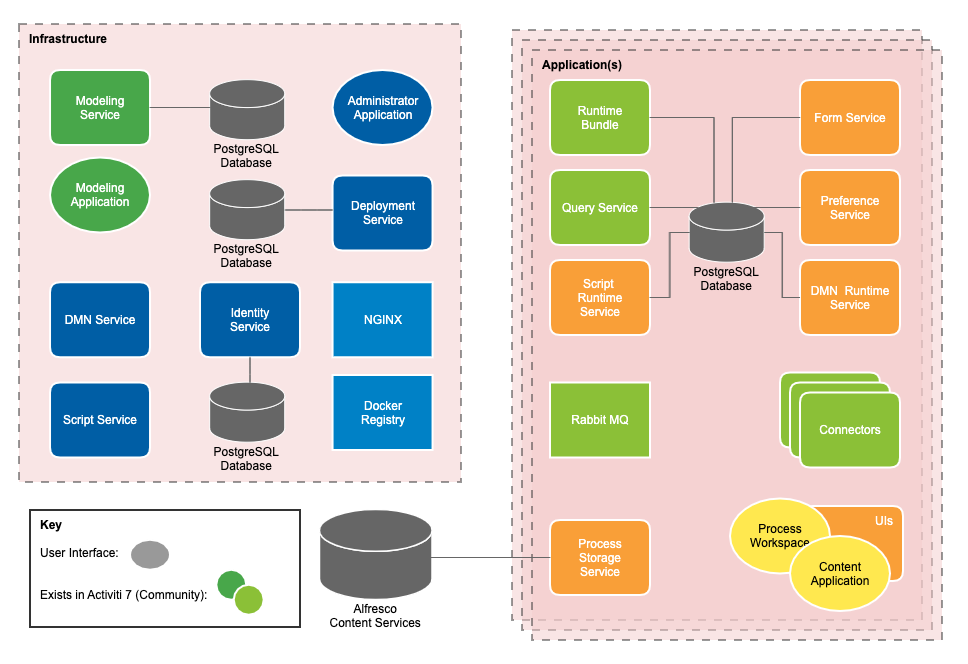
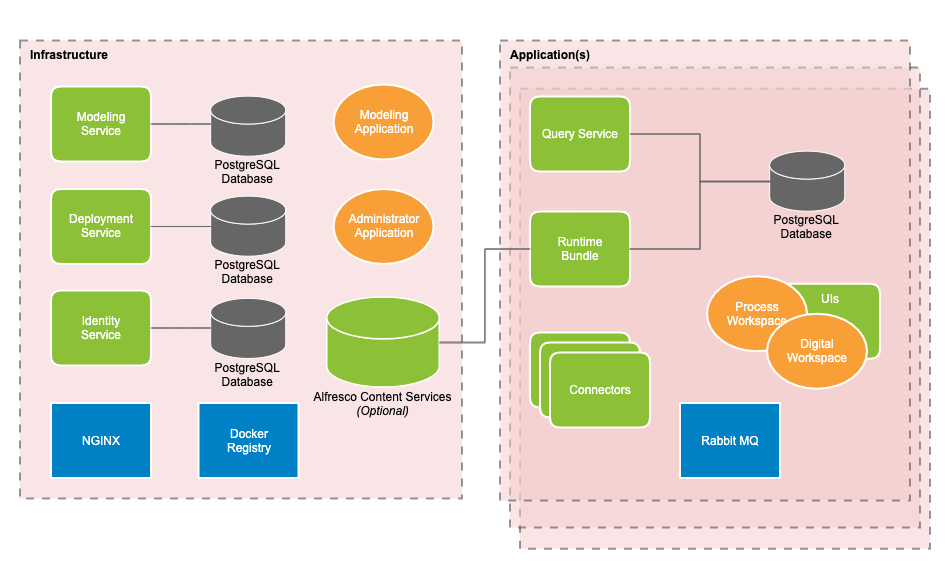
[DOCS-5830] Architecture updates

diff --git a/docs/architecture/application.md b/docs/architecture/application.md
@@ -2,68 +2,58 @@
 Title: Application services
 ---
 
-# Application Services
+# Application services
 Application Services are those that are deployed into a Kubernetes namespace as part of an application. There is a 1:1 relationship between Kubernetes namespaces and applications. Each application that is deployed will contain application level services specific to only that application in its own Kubernetes Namespace. 
 
-The application name therefore forms part of the REST API endpoints. 
+The application name forms part of the REST API endpoints. 
 
-## Runtime Bundle
-A runtime bundle represents a stateless instance of the process engine that executes an immutable set of process definitions. It is important to note that you cannot deploy new process definitions to an existing runtime bundle, nor can you update a process definition within it. Instead, you create a new version of your runtime bundle that contains the updates. 
+## Application runtime bundle
+The application runtime bundle is a service that contains the following: 
 
-Runtime Bundles expose a synchronous REST API and an asynchronous message-based API. Each Runtime Bundle contains a single application and each application is deployed to its own Namespace. 
+![Application runtime bundle diagram](../images/arch-runtime.png)
 
-Runtime Bundles emit and consume events that occur within processes via Spring Cloud Streams. A description of [engine events](events.md) and their classes is available.
+The application runtime bundle stores data in a Postgres database that is shared with the [application query service](#application-query-service), with data separated into separate schemas. A database is deployed into each namespace by default, however an external instance can be used as the target instead.
 
-By default, the data is stored in a Postgres database that is shared within an application namespace between the Query Service, Preference Service, Form Service and Runtime Bundle. This can be updated to point to a Postgres data store external to an application’s namespace or even external to the cluster. 
+### Process runtime
+The process runtime is a stateless instance of the process engine that executes an immutable set of process definitions. Each instance of the process engine only contains a single application.
 
-The REST APIs that the runtime bundle exposes deal with processes and tasks and are specific to each application. 
+A synchronous REST API and an asynchronous message-based API are exposed by the process engine and events are emitted and consumed via Spring Cloud Streams. A list of [engine events](events.md) and their classes is available.
 
-## Query Service
-The Query Service is used for querying process data without accessing the [runtime bundle](#runtime-bundle) directly. It consumes the events produced by the runtime bundle that are routed via Spring Cloud Streams through the [Rabbit MQ](#rabbit-mq) binder. 
+### Form runtime
+The form runtime contains the functionality required for [forms](../modeling/forms/README.md) to function within an application.  
 
-The query service contains tables that have had some level of data aggregation performed on them for querying purposes. These tables can also be used to setup [GraphQL](https://graphql.org/learn/) against to query specific events and use web sockets with. 
+### DMN runtime
+The DMN runtime contains the functionality required for [decision tables](../modeling/decisions.md) to function within an application. 
 
-Another set of tables within the query service store events without any data manipulation and are used as an audit trail for each application. These audit events can be queried without accessing the runtime bundle directly. 
+### Script runtime 
+The script runtime contains the functionality required to execute [scripts](../modeling/scripts.md) within an application.
 
-By default, the data is stored in a Postgres database that is shared within an application namespace between the Query Service, Preference Service, Form Service and Runtime Bundle. This can be updated to point to a Postgres data store external to an application’s namespace or even external to the cluster. 
+### Preference
+User preferences are retained in a key value store within the application database. 
 
-The REST APIs that the query service exposes deal with processes and tasks and are specific to each application. 
-
-## Form Service
-The Form Service contains the backend functionality required for [forms](../modeling/forms/README.md) to function within an application. 
-
-By default, the data is stored in a Postgres database that is shared within an application namespace between the Query Service, Preference Service, Form Service and Runtime Bundle. This can be updated to point to a Postgres data store external to an application’s namespace or even external to the cluster. 
-
-The REST APIs that the Form service exposes deal with forms and are specific to each application.
-
-The following is a high level diagram of the Form service:
-
-![Form service diagram](../images/arch-form.png)
-
-## Process Storage Service
-The Process Storage Service stores process instances and tasks as nodes within an [Alfresco Content Services (ACS)](http://docs.alfresco.com/6.1/concepts/welcome.html) repository. 
+### Process storage
+Process storage optionally stores process instances and tasks as nodes within an [Alfresco Content Services (ACS)](http://docs.alfresco.com/6.2/concepts/welcome.html) repository. 
 
 The user that creates these nodes in ACS is **service-account-storage-service**.  
 
-The REST APIs that the Process Storage Service exposes deal with folders and files and are specific to each application.  
+## Application query service
+The application query service contains the following: 
 
-The following is a high level diagram of the process storage service:
+![Application query service diagram](../images/arch-query.png)
 
-![Process Storage Service diagram](../images/arch-storage.png)
+The application query service stores data in a Postgres database that is shared with the [application runtime bundle](#application-runtime-bundle), with data separated into separate schemas. A database is deployed into each namespace by default, however an external instance can be used as the target instead.
 
-## DMN Runtime Service
-The DMN Runtime Service contains the backend functionality required for [decision tables](../modeling/decisions.md) to function within an application. 
+### Query
+Tables for querying application data are separate to the runtime so that queries can be run without accessing any runtime services. Some data aggregation is performed on the tables to improve querying.
 
-## Rabbit MQ
-[Rabbit MQ](https://www.rabbitmq.com/) is the default message broker deployed with Activiti Enterprise that routes the events emitted by the runtime bundle asynchronously to other relevant microservices such as the audit and query services. 
+### Audit 
+Audit log tables for all application transactions are separate to the runtime so that they can be queried without accessing any runtime services. No data aggregation or manipulation is run against audit logs to enforce an accurate audit trail. 
 
-Rabbit MQ is the default implementation, but can be replaced by a different message broker. 
-
-## Preference Service
-The Preference Service is a key value store that retains user-based preferences. By default, the data is stored in a Postgres database that is shared within an application namespace between the Query Service, Preference Service, Form Service and Runtime Bundle. This can be updated to point to a Postgres data store external to an application’s namespace or even external to the cluster. 
+### Notification 
+The tables used for querying application data are also be used to setup [GraphQL](https://graphql.org/learn/) against in order to query specific events and use web sockets with. 
 
 ## Connectors
-Connectors are used to execute logic outside of processes and the [runtime bundle](#runtime-bundle). Connectors are attached to a [service task](../modeling/processes/bpmn/service.md) within a process definition. When the process flow reaches the service task, the values are sent from the process instance to a connector using Spring Cloud Streams via [Rabbit MQ](#rabbit-mq) to be used as part of the logic. The results are sent back to the process instance after the connector has finished and the process flow continues.
+Connectors are used to execute logic outside of processes and the [application runtime bundle](#application-runtime-bundle). Connectors are attached to a [service task](../modeling/processes/bpmn/service.md) within a process definition. When the process flow reaches the service task, the values are sent from the process instance to a connector using Spring Cloud Streams via [Rabbit MQ](#rabbit-mq) to be used as part of the logic. The results are sent back to the process instance after the connector has finished and the process flow continues.
 
-## Script Runtime Service
-The Script Runtime Service contains the backend functionality required to execute [scripts](../modeling/scripts.md) within an application. Scripts are executed outside of the runtime bundle with the results being passed back using Rabbit MQ.
+## Rabbit MQ
+[Rabbit MQ](https://www.rabbitmq.com/) is the default message broker deployed with Activiti Enterprise that routes the events emitted by the runtime bundle asynchronously to other services.

diff --git a/docs/administrator/deploy/infrastructure.md b/docs/administrator/deploy/infrastructure.md
@@ -10,7 +10,7 @@ Certain aspects of the infrastructure can be configured on an application by app
 * [Deploying an application with custom images](#deploying-an-application-with-custom-images)
 
 ## Configuring external Postgres instances
-By default, data for the query service, preference service, form service and runtime bundle is stored in an instance of Postgres deployed into an application namespace. A number of options are available to update the Postgres storage options: 
+By default, data for the application runtime bundle and application query service is stored in an instance of Postgres deployed into an application namespace. A number of options are available to update the Postgres storage options: 
 
 * [Use an external Postgres instance for all services](#use-an-external-postgres-instance-for-all-services)
 * [Use separate an external Postgres instance(s) for each service](#use-an-external-postgres-instance(s)-for-each-service)
@@ -51,9 +51,9 @@ In the Administrator Application, this would look similar to the following:
 ![Example external Postgres deployment variables](../../images/deploy-postgres-external.png)
 
 ### Use an external Postgres instance(s) for each service
-An external instance of Postgres can be specified at the specific service level. This means that as few or as many services can use an external instance as required. The external instances can be different for each service. Any service that does not have a Postgres instance specified will use the `postgresql-service` settings as its default. 
+An external instance of Postgres can be specified at the service level. This means that as few or as many services can use an external instance as required. The external instances can be different for each service. Any service that does not have a Postgres instance specified will use the `postgresql-service` settings as its default. 
 
-The following is an example deployment payload where the query service is set to use an external instance of Postgres: 
+The following is an example deployment payload where the application query service is set to use an external instance of Postgres: 
 
 ```json
 {
@@ -91,7 +91,7 @@ An external event bridge can be added to an application at deployment time that 
 * [Elasticsearch](#elasticsearch)
 * [Kafka](#kafka)
 
-Runtime events are events that are emitted by the [runtime bundle](../../architecture/application.md#runtime-bundle). 
+Runtime events are events that are emitted by the [application runtime bundle](../../architecture/application.md#application-runtime-bundle). 
 
 Integration events are events that are emitted by [connectors](../../modeling/connectors/README.md). For example, if using the [email connector](../../modeling/connectors/ootb/email.md), the event bridge will listen to events in the queue named `emailConnector.SEND`. 
 

diff --git a/docs/architecture/platform.md b/docs/architecture/platform.md
@@ -8,6 +8,8 @@ Platform services are those services that are deployed into a single Kubernetes 
 ## Modeling service
 The modeling service contains the backend functionality required for the [Alfresco Modeling Application](../modeling/README.md) to run. It requires an instance of Postgres deployed with it for storing project and model definitions that the [deployment service](#deployment-service) uses to deploy projects. This instance of Postgres is deployed at a platform level and is independent of the one used by the [application services](../architecture/application.md). It is also independent of the Postgres instance used by the deployment service.
 
+The modeling service also contains simulation services so that decision table and script functionality can be tested during the modeling experience. 
+
 The REST APIs that the modeling service exposes deal with projects, models and releases. 
 
 The following is a high level diagram of the modeling service:
@@ -45,9 +47,3 @@ An instance of [Alfresco Content Services (ACS)](https://docs.alfresco.com/6.1/r
 Alfresco Activiti Enterprise uses the [Identity Service](https://docs.alfresco.com/identity/concepts/identity-overview.html) for authentication and user and role management throughout the product. Authentication can be [configured](http://docs.alfresco.com/identity/concepts/identity-configure.html) to external identity provider instances such as LDAP and SAML. 
 
 The [Alfresco Administrator Application](../administrator/identity/README.md) allows administrators to manage common user-related functions without needing to access the Identity Service. 
-
-## DMN Service
-The DMN Service is used to simulate the [DMN Runtime Service](../architecture/application.md#dmn-runtime-service) in an application without it being deployed. This allows [decision tables](../modeling/decisions.md) to be simulated during the modeling experience to test the functionality using different inputs.
-
-## Script Service
-The Script Service is used to simulate the [Script Runtime Service](../architecture/application.md#script-runtime-service) in an application without it being deployed. This allows [scripts](../modeling/scripts.md) to be simulated during the modeling experience to test the functionality.
